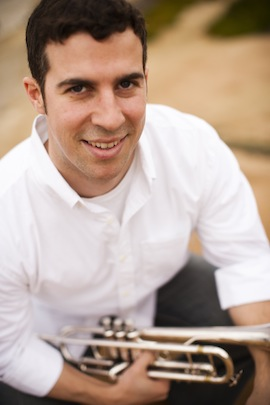
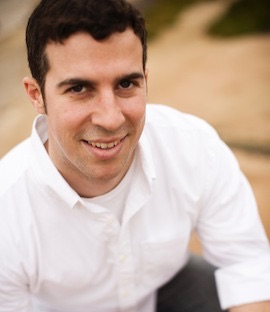
updated sidebar

diff --git a/src/components/SideMenu.js b/src/components/SideMenu.js
@@ -7,7 +7,6 @@ import { Button, Icon, SideNav, SideNavItem } from 'react-materialize';
 
 
 
-
 const SideMenu = () => {
 
 return (
@@ -22,17 +21,16 @@ return (
 
     trigger={<Button className=".left-align grey darken-2" icon={<Icon>menu</Icon>}node="button"></Button>}>
 
-
-    <SideNavItem
-
-      user={{
-        background: 'https://images.unsplash.com/photo-1592185161765-2ea880a392b8?ixlib=rb-1.2.1&ixid=eyJhcHBfaWQiOjEyMDd9&auto=format&fit=crop&w=1716&q=80',
-        email: 'mrsteveoconnor@gmail.com',
-        image: './images/headshot.jpg',
-        name: "Steve O'Connor"
-      }}
-      userView
-    />
+    <div >
+      <SideNavItem>
+        <img
+        src="./images/headshot.jpg"
+        alt="headshot"
+        style={{ width: '120%', height: 'auto'}}
+        />
+      </SideNavItem>
+    </div>
+    <div style={{ marginTop: '100%'}}>
     <SideNavItem
       href="/"
       icon={<Icon>home</Icon>}
@@ -41,17 +39,17 @@ return (
       Home
     </SideNavItem>
     <SideNavItem
-    href="https://github.com/stinkypiece"
-    icon={<Icon>collections</Icon>}
-    className="hoverable"
+      href="https://github.com/stinkypiece"
+      icon={<Icon>collections</Icon>}
+      className="hoverable"
     >
       Github
     </SideNavItem>
 
     <SideNavItem
-    href="/projects"
-    icon={<Icon>apps</Icon>}
-    className="hoverable"
+      href="/projects"
+      icon={<Icon>apps</Icon>}
+      className="hoverable"
     >
       Projects
     </SideNavItem>
@@ -63,6 +61,7 @@ return (
     >
       About Me
     </SideNavItem>
+    </div>
   </SideNav>
 </div>
 )
